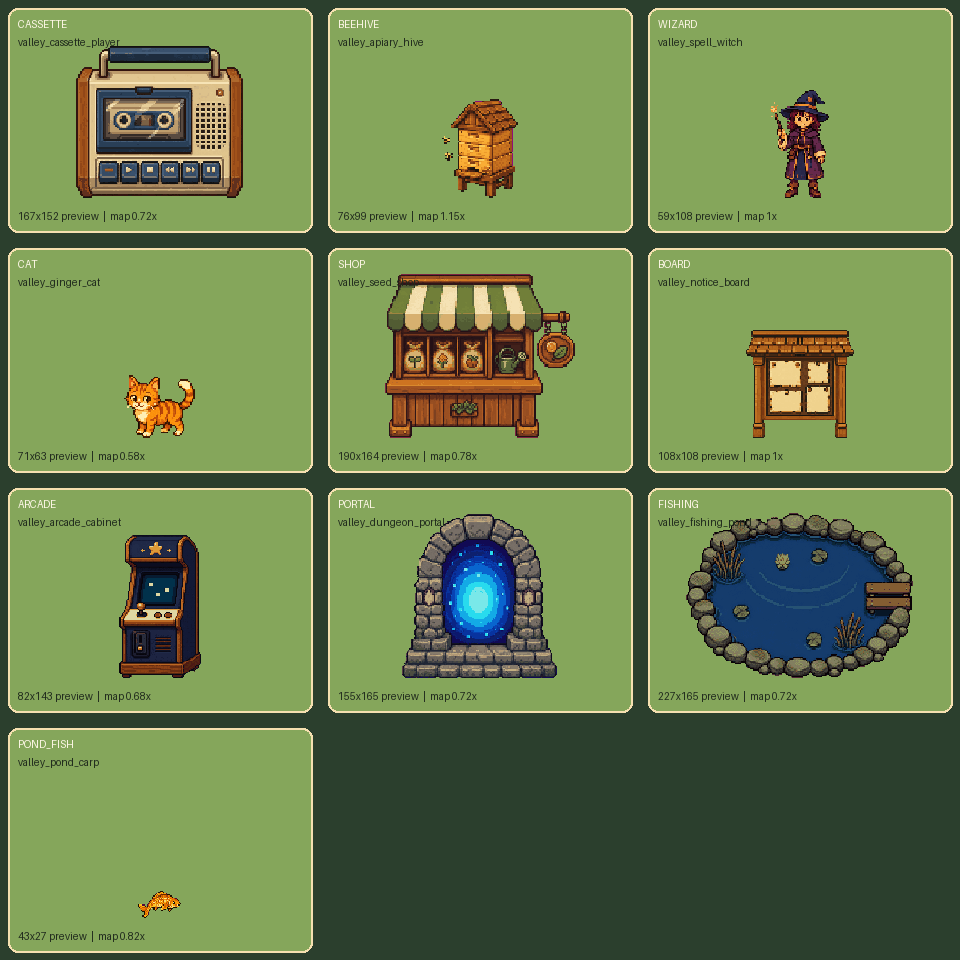
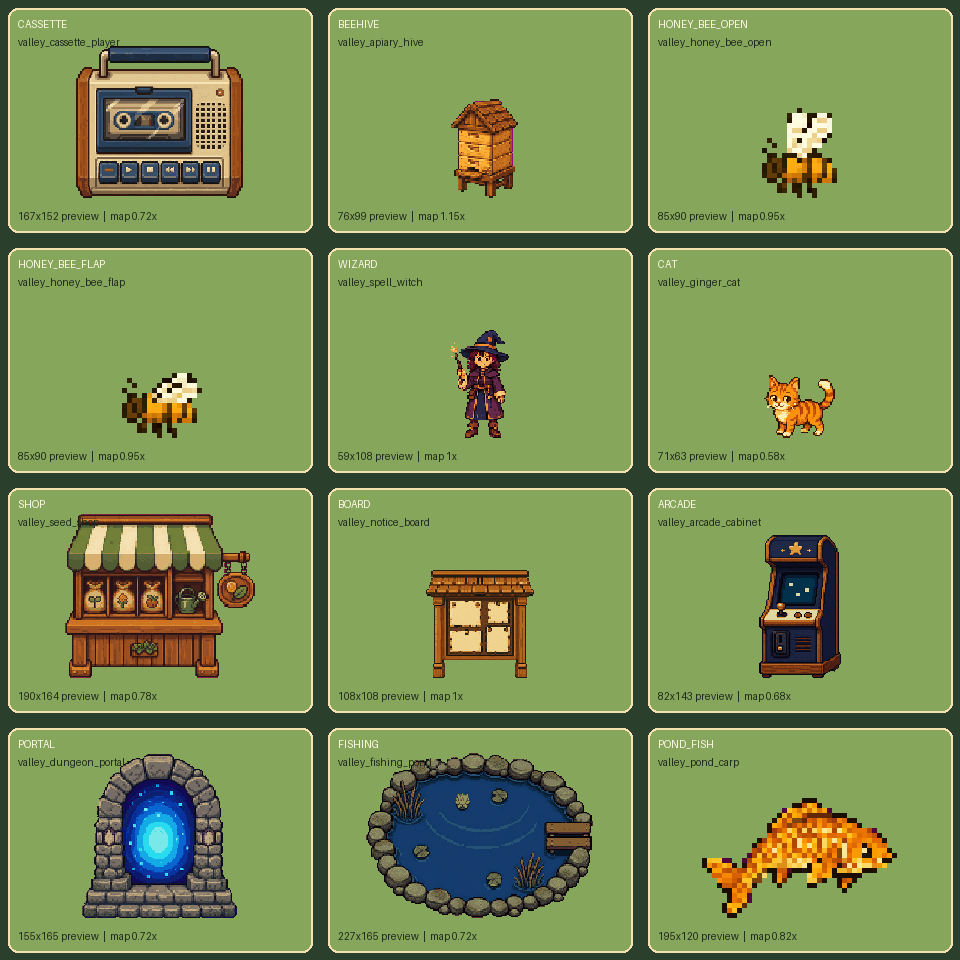
feat: ground shop and redesign apiary bees

diff --git a/js/scenes/farm.js b/js/scenes/farm.js
@@ -1057,21 +1057,25 @@ class FarmScene extends Phaser.Scene {
       this.tweens.add({ targets: sp, alpha: 0.2, scale: 1.8, duration: 800 + i*300, yoyo: true, repeat: -1 });
     }
 
-    // Micro World Details: Barrels & Crates next to Shop (kitchen yard on Unit 10)
-    const bxl = sx + 28, byl = sy - 10;
-    const barrelTex = this._propTex('oak_barrel_hd', 'pixel_barrel');
-    const crateTex = this._propTex('wooden_crate_hd', 'pixel_crate');
-    const barrelHd = barrelTex.indexOf('_hd') >= 0;
-    const crateHd = crateTex.indexOf('_hd') >= 0;
-    const barrelSprite = this.add.image(bxl, byl, barrelTex)
-      .setOrigin(0.5, 1).setScale(barrelHd ? 1 : 0.9).setDepth(byl);
-    const crateSprite = this.add.image(bxl + (crateHd ? 44 : 18), byl + 6, crateTex)
-      .setOrigin(0.5, 1).setScale(crateHd ? 1 : 0.9).setDepth(byl+6);
-    if (barrelHd && barrelSprite.texture) barrelSprite.texture.setFilter(Phaser.Textures.FilterMode.NEAREST);
-    if (crateHd && crateSprite.texture) crateSprite.texture.setFilter(Phaser.Textures.FilterMode.NEAREST);
-    if (this.shadows) {
-      this.shadows.createShadow(barrelSprite, barrelHd ? 36 : 18, barrelHd ? 12 : 6, 0);
-      this.shadows.createShadow(crateSprite, crateHd ? 40 : 20, crateHd ? 12 : 6, 0);
+    // The reviewed shop already includes its own sacks, baskets, and counter display.
+    // Keep the old loose barrel/crate garnish only when that asset failed to load;
+    // otherwise the two designs occupy the same footprint and read as an overlap.
+    if (!this.textures.exists('valley_seed_shop_hd')) {
+      const bxl = sx + 28, byl = sy - 10;
+      const barrelTex = this._propTex('oak_barrel_hd', 'pixel_barrel');
+      const crateTex = this._propTex('wooden_crate_hd', 'pixel_crate');
+      const barrelHd = barrelTex.indexOf('_hd') >= 0;
+      const crateHd = crateTex.indexOf('_hd') >= 0;
+      const barrelSprite = this.add.image(bxl, byl, barrelTex)
+        .setOrigin(0.5, 1).setScale(barrelHd ? 1 : 0.9).setDepth(byl);
+      const crateSprite = this.add.image(bxl + (crateHd ? 44 : 18), byl + 6, crateTex)
+        .setOrigin(0.5, 1).setScale(crateHd ? 1 : 0.9).setDepth(byl+6);
+      if (barrelHd && barrelSprite.texture) barrelSprite.texture.setFilter(Phaser.Textures.FilterMode.NEAREST);
+      if (crateHd && crateSprite.texture) crateSprite.texture.setFilter(Phaser.Textures.FilterMode.NEAREST);
+      if (this.shadows) {
+        this.shadows.createShadow(barrelSprite, barrelHd ? 36 : 18, barrelHd ? 12 : 6, 0);
+        this.shadows.createShadow(crateSprite, crateHd ? 40 : 20, crateHd ? 12 : 6, 0);
+      }
     }
 
     // Micro World Details: Directional Signpost
@@ -1295,12 +1299,19 @@ class FarmScene extends Phaser.Scene {
     const tex = this._propTex('valley_seed_shop_hd', 'shop_sign');
     const hd = tex === 'valley_seed_shop_hd';
     this.shopBaseScale = hd ? 0.78 : 1.3;
+
+    // A broad two-tone grass pad gives the stall an explicit contact plane. The shop is
+    // a frequently used landmark, so its building stays still while only its hint animates.
+    this.shopGround = this.add.graphics().setDepth(sy - 2);
+    this.shopGround.fillStyle(0x43512F, 0.64);
+    this.shopGround.fillEllipse(sx, sy - 1, hd ? 162 : 70, hd ? 24 : 16);
+    this.shopGround.fillStyle(0x819B4A, 0.72);
+    this.shopGround.fillEllipse(sx, sy - 5, hd ? 142 : 58, hd ? 14 : 9);
+
     this.shopNPC = this.add.image(sx, sy, tex)
       .setOrigin(0.5, 1).setScale(this.shopBaseScale).setDepth(sy);
     if (hd && this.shopNPC.texture) this.shopNPC.texture.setFilter(Phaser.Textures.FilterMode.NEAREST);
     if (this.shadows) this.shadows.createShadow(this.shopNPC, hd ? 76 : 48, hd ? 18 : 14, 1);
-
-    this.tweens.add({ targets: this.shopNPC, y: sy - 4, duration: 900, yoyo: true, repeat: -1, ease: 'Sine.InOut' });
 
     this.shopHint = this.add.text(sx, sy + 10, '🏪 SHOP\n' + WORLD_CLICK_HINT, {
       fontFamily:'"Press Start 2P",monospace', fontSize:'14px',
@@ -1822,19 +1833,38 @@ class FarmScene extends Phaser.Scene {
     if (hd && this.beehiveSprite.texture) this.beehiveSprite.texture.setFilter(Phaser.Textures.FilterMode.NEAREST);
     if (this.shadows) this.shadows.createShadow(this.beehiveSprite, hd ? 42 : 38, 12, 1);
 
+    const beeFrames = ['valley_honey_bee_open_hd', 'valley_honey_bee_flap_hd'];
+    const beeAnimKey = 'valley-honey-bee-fly';
+    const beeUsesHd = beeFrames.every((key) => this.textures.exists(key));
+    if (beeUsesHd) {
+      beeFrames.forEach((key) => this.textures.get(key).setFilter(Phaser.Textures.FilterMode.NEAREST));
+      if (!this.anims.exists(beeAnimKey)) {
+        this.anims.create({
+          key: beeAnimKey,
+          frames: beeFrames.map((key) => ({ key })),
+          frameRate: 10,
+          repeat: -1
+        });
+      }
+    }
+
     this.beehiveBees = [];
     const numBees = 4;
     for (let i = 0; i < numBees; i++) {
-      const beeSprite = this.add.image(bx, by - 22, 'p_tiny_bee')
-        .setScale(1.2).setDepth(by + 10);
+      const beeSprite = beeUsesHd
+        ? this.add.sprite(bx, by - 42, beeFrames[i % beeFrames.length])
+        : this.add.image(bx, by - 42, 'p_tiny_bee');
+      beeSprite.setScale(beeUsesHd ? 0.95 - (i % 2) * 0.08 : 1.2).setDepth(by + 10);
+      if (beeUsesHd) beeSprite.play({ key: beeAnimKey, delay: i * 35 });
       this.beehiveBees.push({
         sprite: beeSprite,
         baseX: bx,
-        baseY: by - 22,
+        baseY: by - 42,
         angle: (Math.PI * 2 / numBees) * i,
-        radiusX: 16 + (i % 2) * 6,
-        radiusY: 10 + (i % 2) * 4,
-        speed: 0.04 + i * 0.01
+        radiusX: 23 + (i % 2) * 7,
+        radiusY: 13 + (i % 2) * 4,
+        speed: 0.035 + i * 0.008,
+        usesHd: beeUsesHd
       });
     }
 
@@ -2595,7 +2625,9 @@ class FarmScene extends Phaser.Scene {
     if (this.beehiveBees && this.beehiveBees.length) {
       this.beehiveBees.forEach((bee) => {
         bee.angle += bee.speed;
-        bee.sprite.x = bee.baseX + Math.cos(bee.angle) * bee.radiusX + Math.sin(bee.angle * 2.2) * 2;
+        const nextX = bee.baseX + Math.cos(bee.angle) * bee.radiusX + Math.sin(bee.angle * 2.2) * 2;
+        if (bee.usesHd && bee.sprite.setFlipX) bee.sprite.setFlipX(nextX > bee.sprite.x);
+        bee.sprite.x = nextX;
         bee.sprite.y = bee.baseY + Math.sin(bee.angle) * bee.radiusY + Math.cos(bee.angle * 1.7) * 2;
       });
     }
@@ -2931,8 +2963,8 @@ class FarmScene extends Phaser.Scene {
 
   _teardownExtra(id){
     if (id === 'shop') {
-      this._destroyWorldObj(this.shopNPC); this._destroyWorldObj(this.shopHint);
-      this.shopNPC = this.shopHint = null; this.shopX = this.shopY = null;
+      this._destroyWorldObj(this.shopGround); this._destroyWorldObj(this.shopNPC); this._destroyWorldObj(this.shopHint);
+      this.shopGround = this.shopNPC = this.shopHint = null; this.shopX = this.shopY = null;
       this.shopBaseScale = null;
     } else if (id === 'board') {
       this._destroyWorldObj(this.boardSprite); this._destroyWorldObj(this.boardHint);

diff --git a/tests/test_valley_map_art.js b/tests/test_valley_map_art.js
@@ -18,9 +18,9 @@ function assert(cond, msg) {
   console.log('ok  ' + msg);
 }
 
-assert(manifest.entries.length === 10, 'manifest covers the ten redesigned map assets');
+assert(manifest.entries.length === 12, 'manifest covers the twelve redesigned map assets and bee frames');
 assert(manifest.entries.every((entry) => entry.reviewed), 'every source and processed sprite was reviewed');
-assert(new Set(manifest.entries.map((entry) => entry.role)).size === 10, 'each map role has one dedicated asset');
+assert(new Set(manifest.entries.map((entry) => entry.role)).size === 12, 'each map role and animation frame has one dedicated asset');
 
 manifest.entries.forEach((entry) => {
   assert(/^[a-z][a-z0-9_]*$/.test(entry.slug), entry.slug + ' follows snake_case');
@@ -75,6 +75,20 @@ assert(/Math\.min\(W - 70, this\.farm\.x \+ this\.farm\.w \+ 78\)/.test(farm)
   'beehive sits outside the plot fence and apple canopy');
 assert(/this\.beehiveGround[\s\S]{0,240}fillEllipse/.test(farm), 'beehive has a visible ground contact patch');
 assert(!/targets: this\.beehiveSprite,[\s\S]{0,100}repeat: -1/.test(farm), 'beehive body no longer floats or shakes forever');
+assert(/const beeFrames = \['valley_honey_bee_open_hd', 'valley_honey_bee_flap_hd'\]/.test(farm)
+  && /frames: beeFrames\.map/.test(farm) && /frameRate: 10/.test(farm),
+  'apiary bees use the reviewed two-frame wing animation');
+assert(/this\.add\.sprite\(bx, by - 42, beeFrames\[i % beeFrames\.length\]\)/.test(farm)
+  && /this\.add\.image\(bx, by - 42, 'p_tiny_bee'\)/.test(farm),
+  'all four apiary bees prefer reviewed art and retain a load-failure fallback');
+assert(/setFlipX\(nextX > bee\.sprite\.x\)/.test(farm), 'reviewed bees turn to face their flight direction');
+
+const shop = farm.slice(farm.indexOf('  _createShopNPC(W, H){'), farm.indexOf('  _createBoardNPC(W, H){'));
+assert(/this\.shopGround[\s\S]{0,420}fillEllipse/.test(shop), 'shop has a broad visible ground contact patch');
+assert(!/targets: this\.shopNPC/.test(shop), 'shop building stays grounded instead of bobbing in the air');
+assert(/if \(!this\.textures\.exists\('valley_seed_shop_hd'\)\)[\s\S]{0,700}oak_barrel_hd[\s\S]{0,300}wooden_crate_hd/.test(farm),
+  'legacy barrel and crate garnish is hidden whenever the reviewed shop is available');
+assert(/this\._destroyWorldObj\(this\.shopGround\)/.test(farm), 'shop ground is removed with the optional landmark');
 
 const cassette = layout.stations.find((station) => station.id === 'cassette');
 assert(cassette && cassette.scale === 0.72, 'cassette uses the reviewed station scale');

diff --git a/js/systems/economy.js b/js/systems/economy.js
@@ -125,7 +125,7 @@ function hdStationScale(spec) {
 }
 const CROP_HD_NAMES = ['blossom', 'cabbage', 'strawberry', 'corn', 'sunflower'];
 const ART_DIR = 'sprites/';
-const ART_CACHE_KEY = 'art-topik-213-extra-10-a87f32476a13';
+const ART_CACHE_KEY = 'art-topik-213-extra-12-766839d3adf5';
 function artUrl(file) {
   return ART_DIR + file + '?v=' + encodeURIComponent(ART_CACHE_KEY);
 }
@@ -153,6 +153,8 @@ const ART_LOAD = [
   { key: 'valley_spell_witch_hd', file: 'characters/valley_spell_witch.png' },
   { key: 'valley_ginger_cat_hd', file: 'characters/valley_ginger_cat.png' },
   { key: 'valley_apiary_hive_hd', file: 'decorations/valley_apiary_hive.png' },
+  { key: 'valley_honey_bee_open_hd', file: 'decorations/valley_honey_bee_open.png' },
+  { key: 'valley_honey_bee_flap_hd', file: 'decorations/valley_honey_bee_flap.png' },
   { key: 'valley_dungeon_portal_hd', file: 'decorations/valley_dungeon_portal.png' },
   { key: 'valley_fishing_pond_hd', file: 'decorations/valley_fishing_pond.png' },
   { key: 'valley_pond_carp_hd', file: 'decorations/valley_pond_carp.png' },

diff --git a/tests/test_pixel_processing.py b/tests/test_pixel_processing.py
@@ -2,6 +2,7 @@
 import importlib.util
 import hashlib
 import json
+from collections import deque
 from pathlib import Path
 import tempfile
 import unittest
@@ -72,8 +73,8 @@ class PixelProcessingTests(unittest.TestCase):
     def test_reviewed_valley_map_sprites_keep_declared_size_and_clean_alpha(self):
         manifest = json.loads((ROOT / "docs/valley-map-art-manifest.json").read_text(encoding="utf-8"))
         entries = manifest["entries"]
-        self.assertEqual(len(entries), 10, "Do not silently skip a redesigned map sprite")
-        self.assertEqual(len({entry["file"] for entry in entries}), 10, "Every map role needs its own PNG")
+        self.assertEqual(len(entries), 12, "Do not silently skip a redesigned map sprite or bee frame")
+        self.assertEqual(len({entry["file"] for entry in entries}), 12, "Every map role and frame needs its own PNG")
         for entry in entries:
             with self.subTest(role=entry["role"], file=entry["file"]):
                 with Image.open(ROOT / entry["file"]) as source:
@@ -83,9 +84,34 @@ class PixelProcessingTests(unittest.TestCase):
                 pixels = list(sprite.getdata())
                 self.assertEqual({p[3] for p in pixels}, {0, 255}, "No blurred alpha edges")
                 self.assertLessEqual(len({p[:3] for p in pixels if p[3]}), 32)
-                self.assertGreater(sum(p[3] == 255 for p in pixels), 100, "Keep a visible subject")
+                minimum_visible = 35 if entry["height"] <= 24 else 100
+                self.assertGreater(sum(p[3] == 255 for p in pixels), minimum_visible, "Keep a visible subject")
                 self.assertEqual(sprite.getchannel("A").getbbox()[3], entry["height"], "Art sits on its baseline")
                 self.assertFalse(any(processor.is_key_color(*p) for p in pixels), "No magenta matte islands")
+
+        bee_frames = {entry["role"]: entry for entry in entries if entry["role"].startswith("honey_bee_")}
+        self.assertEqual(set(bee_frames), {"honey_bee_open", "honey_bee_flap"})
+        with Image.open(ROOT / bee_frames["honey_bee_open"]["file"]) as open_frame, \
+             Image.open(ROOT / bee_frames["honey_bee_flap"]["file"]) as flap_frame:
+            self.assertEqual(open_frame.size, flap_frame.size, "Bee body must not jump between wing frames")
+            self.assertEqual(open_frame.size, (17, 18), "Bee frames keep their reviewed shared canvas")
+
+        hive_entry = next(entry for entry in entries if entry["role"] == "beehive")
+        with Image.open(ROOT / hive_entry["file"]) as hive_source:
+            hive = hive_source.convert("RGBA")
+        opaque = {(x, y) for y in range(hive.height) for x in range(hive.width)
+                  if hive.getpixel((x, y))[3]}
+        components = 0
+        while opaque:
+            components += 1
+            queue = deque([opaque.pop()])
+            while queue:
+                x, y = queue.popleft()
+                for neighbor in ((x - 1, y), (x + 1, y), (x, y - 1), (x, y + 1)):
+                    if neighbor in opaque:
+                        opaque.remove(neighbor)
+                        queue.append(neighbor)
+        self.assertEqual(components, 1, "Hive PNG must not retain detached legacy bee silhouettes")
 
     def test_magenta_key_keeps_enclosed_artwork(self):
         sprite = Image.new("RGBA", (7, 7), (255, 0, 255, 255))

diff --git a/scripts/build_valley_art_review.py b/scripts/build_valley_art_review.py
@@ -38,6 +38,8 @@ def build_layout_preview(entries: list[dict]) -> None:
         (103, "board", 288, 103, "bottom"),
         (188, "apple", 92, 188, "bottom"),
         (192, "beehive", 453, 192, "bottom"),
+        (202, "honey_bee_open", 425, 145, "center"),
+        (202, "honey_bee_flap", 486, 158, "center"),
         (315, "arcade", 72, 315, "bottom"),
         (394, "fishing", 105, 414, "center"),
         (396, "pond_fish", 67, 412, "center"),
@@ -54,6 +56,9 @@ def build_layout_preview(entries: list[dict]) -> None:
         if role == "beehive":
             draw.ellipse((x - 29, y - 9, x + 29, y + 7), fill=(67, 81, 47, 158))
             draw.ellipse((x - 23, y - 8, x + 23, y + 1), fill=(129, 155, 74, 184))
+        elif role == "shop":
+            draw.ellipse((x - 81, y - 13, x + 81, y + 11), fill=(67, 81, 47, 163))
+            draw.ellipse((x - 71, y - 12, x + 71, y + 2), fill=(129, 155, 74, 184))
         if role in by_role:
             entry = by_role[role]
             sprite = load_scaled(entry["file"], float(entry["mapScale"]))
@@ -63,7 +68,7 @@ def build_layout_preview(entries: list[dict]) -> None:
         px = round(x - sprite.width / 2)
         py = round(y - (sprite.height if origin == "bottom" else sprite.height / 2))
         layout.alpha_composite(sprite, (px, py))
-        if role not in ("apple", "well"):
+        if role not in ("apple", "well", "honey_bee_open", "honey_bee_flap"):
             draw.text((max(2, px), max(2, py - 12)), role, fill=(255, 248, 232, 255), stroke_width=1, stroke_fill=(35, 25, 18, 255))
 
     draw.rectangle((8, 728, 568, 758), fill=(36, 48, 34, 220), outline=(245, 224, 176, 255))
@@ -92,6 +97,8 @@ def main() -> None:
         map_scale = float(entry["mapScale"])
         # Show roughly the in-game footprint, enlarged by 1.35 for a readable review.
         preview_scale = map_scale * 1.35
+        if sprite.height <= 24:
+            preview_scale = max(preview_scale, 5.0)
         preview_scale = min(preview_scale, 260 / sprite.width, 165 / sprite.height)
         size = (
             max(1, round(sprite.width * preview_scale)),

diff --git a/docs/valley-map-art-redesign.md b/docs/valley-map-art-redesign.md
@@ -14,20 +14,27 @@ uses the same pipeline so its map object reads as a cassette player before it is
 | Arcade | `valley_arcade_cabinet_hd` | `furniture/valley_arcade_cabinet.png` | 0.68 |
 | Ginger cat | `valley_ginger_cat_hd` | `characters/valley_ginger_cat.png` | 0.58 |
 | Apiary | `valley_apiary_hive_hd` | `decorations/valley_apiary_hive.png` | 1.15 |
+| Honey bee, wings open | `valley_honey_bee_open_hd` | `decorations/valley_honey_bee_open.png` | 0.95 |
+| Honey bee, wings lowered | `valley_honey_bee_flap_hd` | `decorations/valley_honey_bee_flap.png` | 0.95 |
 | Dungeon portal | `valley_dungeon_portal_hd` | `decorations/valley_dungeon_portal.png` | 0.72 |
 | Fishing pond | `valley_fishing_pond_hd` | `decorations/valley_fishing_pond.png` | 0.72 |
 | Pond carp | `valley_pond_carp_hd` | `decorations/valley_pond_carp.png` | 0.82 |
 | Spell witch | `valley_spell_witch_hd` | `characters/valley_spell_witch.png` | 1.00 |
 
-The active Valley pack contains shop, board, arcade, cat, apiary, portal, pond, and carp.
+The active Valley pack contains shop, board, arcade, cat, apiary, animated bees, portal,
+pond, and carp.
 Spell Duel was intentionally removed in commit `a872a6d`, so the witch is not re-enabled
 as a dead interaction. Its retained legacy spawn path now uses the redesigned witch if an
 older or custom world requests `wizard`.
 
-All nine creators keep their procedural texture as a load-failure fallback. The reviewed
+Each landmark creator keeps its procedural texture as a load-failure fallback. The reviewed
 fishing pond branches before the generated rocks and reeds, so the two designs cannot stack.
-The cat's old animation calls are also skipped for the new single-frame illustration while
-the proximity, sleeping, facing, dialogue, and click behavior remain intact.
+The shop follows the same rule: its old loose barrel and crate garnish appears only if the
+reviewed stall fails to load. A two-tone ground patch anchors the shop and the building no
+longer bobs. The detached legacy bee silhouettes were removed from the hive PNG, and the two
+reviewed bee frames now animate independently around the stationary apiary.
+The cat's old animation calls are skipped for the new single-frame illustration while the
+proximity, sleeping, facing, dialogue, and click behavior remain intact.
 
 ## Layout review
 
@@ -36,9 +43,9 @@ the proximity, sleeping, facing, dialogue, and click behavior remain intact.
 landmarks are clamped inside the canvas; the existing HD apple tree and well were moved in
 from the edges, and the cat and apiary were separated from them.
 
-`valley-map-art-review.png` is the nine-asset contact sheet. Its deterministic builder is
+`valley-map-art-review.png` is the twelve-asset contact sheet. Its deterministic builder is
 `scripts/build_valley_art_review.py`. Source image names, corrections, processing sizes,
 and review state are recorded in `valley-map-art-manifest.json`.
 
-The catalog and runtime share cache key `art-topik-213-extra-10-a87f32476a13`, which forces
+The catalog and runtime share cache key `art-topik-213-extra-12-766839d3adf5`, which forces
 browsers to fetch these files instead of retaining the old map sprites.
